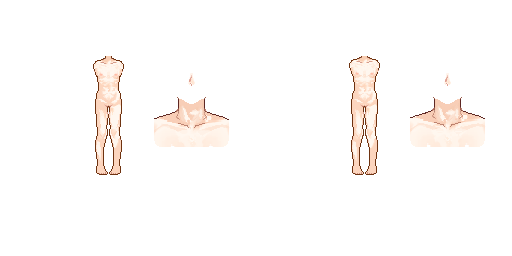
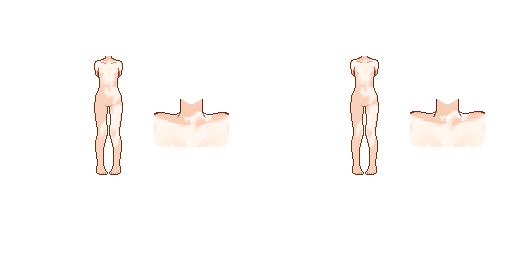
Add Androgynous body slot
Vanilla graphic for it done by Nicoboy (Nicolas). Along with vanilla Modded face 9 and 10.

With this, also bring back the old GooseFem slender body, and make the current Androgynous body to truly read Andro body instead of taking Slender slot.

diff --git a/game/04-Variables/canvasmodel-main.js b/game/04-Variables/canvasmodel-main.js
@@ -18,6 +18,11 @@ replace (?<!["'\w])_(?=\w) with T.
 "to", "is", "gte" etc - fix manually
 */
 // noinspection JSUnusedGlobalSymbols,JSUnusedLocalSymbols
+
+// "andro" only ships its own base sprite; arms, masks and clips reuse the slender art.
+function bodyArtType(bodyType) {
+	return bodyType === "andro" ? "slender" : bodyType;
+}
 /**
  * MODEL OPTIONS
  * =============
@@ -1048,11 +1053,11 @@ Renderer.CanvasModels.main = {
 		}
 		*/
 
-		const notMasc = ["curvy", "slender"].includes(options.body_type);
+		const notMasc = ["curvy", "slender", "andro"].includes(options.body_type);
 		const soft = options.body_type === "soft" && !(between(options.belly, 8, 24));
 		if (notMasc && options.breasts === "cleavage") {
 			const suffix = between(options.breast_size, 3, 4) ? "-3-4.png" : ".png";
-			options.breasts_mask_src = `img/body/breasts/mask-${options.body_type}${suffix}`
+			options.breasts_mask_src = `img/body/breasts/mask-${bodyArtType(options.body_type)}${suffix}`
 		} else {
 			options.breasts_mask_src = null;
 		}
@@ -1070,7 +1075,7 @@ Renderer.CanvasModels.main = {
 		if (notMasc) {
 			["upper", "under_upper"].forEach(slot => {
 				const isFormfitting = options.worn[slot].setup.formfitting;
-				options[`${slot}_fitted_clip_src`] = isFormfitting ? `img/clothes/masks/formfitting-${options.body_type}.png` : null;
+				options[`${slot}_fitted_clip_src`] = isFormfitting ? `img/clothes/masks/formfitting-${bodyArtType(options.body_type)}.png` : null;
 				options[`${slot}_fitted_right_move_src`] = isFormfitting ? "img/clothes/masks/formfitting-right-move.png" : null;
 				options[`${slot}_fitted_left_move_src`] = isFormfitting ? "img/clothes/masks/formfitting-left-move.png" : null;
 			});
@@ -1389,7 +1394,7 @@ Renderer.CanvasModels.main = {
 			srcfn(options) {
 				if (options.mannequin) return "img/body/mannequin/left-arm-idle.png";
 				if (options.arm_left === "cover") return "img/body/left-arm-cover.png";
-				return `img/body/left-arm-idle-${options.body_type}.png`;
+				return `img/body/left-arm-idle-${bodyArtType(options.body_type)}.png`;
 			},
 		},
 		"rightarm": {
@@ -1405,7 +1410,7 @@ Renderer.CanvasModels.main = {
 			},
 			srcfn(options) {
 				if (options.mannequin) return `img/body/mannequin/right-arm-${options.arm_right}.png`;
-				if (options.arm_right === "idle") return `img/body/right-arm-idle-${options.body_type}.png`;
+				if (options.arm_right === "idle") return `img/body/right-arm-idle-${bodyArtType(options.body_type)}.png`;
 				return `img/body/right-arm-${options.arm_right}.png`;
 			},
 		},
@@ -4268,7 +4273,7 @@ Renderer.CanvasModels.main = {
 				// return options.show_clothes
 				// 	&& options.worn.hands.index > 0
 				// 	&& options.worn.hands.setup.leftImage === 1
-				// 	&& ["curvy", "slender"].includes(options.body_type)
+				// 	&& ["curvy", "slender", "andro"].includes(options.body_type)
 				// 	&& options.arm_left === "idle"
 				// 	&& !(options.belly > 7)
 				return false;
@@ -4296,7 +4301,7 @@ Renderer.CanvasModels.main = {
 					&& options.worn.hands.index > 0
 					&& options.worn.hands.setup.leftImage === 1
 					&& options.worn.hands.setup.accessory === 1
-					&& ["curvy", "slender"].includes(options.body_type)
+					&& ["curvy", "slender", "andro"].includes(options.body_type)
 					&& options.arm_left === "idle"
 					&& !(options.belly > 7);
 			},
@@ -5655,7 +5660,7 @@ function genlayer_clothing_fitted_left(slot, overrideOptions) {
 			const checks = options.show_clothes
 				&& options.worn[slot].index > 0
 				&& options.worn[slot].setup.mainImage !== 0
-				&& ((options.worn[slot].setup.formfitting === 1 && ["curvy", "slender"].includes(options.body_type)) || (options.body_type === "soft" && ((V.bellyTucked && ["under_lower", "lower"].includes(slot)) || V.worn[slot].setup.one_piece)))
+				&& ((options.worn[slot].setup.formfitting === 1 && ["curvy", "slender", "andro"].includes(options.body_type)) || (options.body_type === "soft" && ((V.bellyTucked && ["under_lower", "lower"].includes(slot)) || V.worn[slot].setup.one_piece)))
 				&& !between(options.belly, 8, 24);
 			return checks;
 		},
@@ -5681,7 +5686,7 @@ function genlayer_clothing_fitted_left_acc(slot, overrideOptions) {
 			const checks = options.worn[slot].index > 0
 				&& options.worn[slot].setup.accImage !== 0
 				&& options.worn[slot].setup.accessory === 1
-				&& ((options.worn[slot].setup.formfitting === 1 && ["curvy", "slender"].includes(options.body_type)) || (options.body_type === "soft" && (V.bellyTucked || V.worn[slot].setup.one_piece)))
+				&& ((options.worn[slot].setup.formfitting === 1 && ["curvy", "slender", "andro"].includes(options.body_type)) || (options.body_type === "soft" && (V.bellyTucked || V.worn[slot].setup.one_piece)))
 				&& !(options.worn[slot].setup.formfittingDisabled ?? []).includes("acc")
 				&& !between(options.belly, 8, 24);
 			return checks;
@@ -6216,7 +6221,7 @@ function genlayer_clothing_arm_fitted(arm, slot, overrideOptions) {
 			// return options.show_clothes
 			// 	&& options.worn[slot].index > 0
 			// 	&& options.worn[slot].setup.sleeve_img === 1
-			// 	&& ["curvy", "slender"].includes(options.body_type)
+			// 	&& ["curvy", "slender", "andro"].includes(options.body_type)
 			// 	&& options.arm_left === "idle"
 			// 	&& !(options.belly > 7)
 			// 	&& options["arm_" + arm] !== "none";
@@ -6280,7 +6285,7 @@ function genlayer_clothing_arm_acc_fitted(arm, slot, overrideOptions) {
 				&& options.worn[slot].index > 0
 				&& options.worn[slot].setup.sleeve_img === 1
 				&& options.worn[slot].setup.sleeve_acc_img === 1
-				&& ["curvy", "slender"].includes(options.body_type)
+				&& ["curvy", "slender", "andro"].includes(options.body_type)
 				&& options.arm_left === "idle"
 				&& !(options.belly > 7)
 				&& !(options.worn.under_upper.setup.formfittingDisabled ?? []).includes("sleeve_acc")

diff --git a/game/03-JavaScript/save.js b/game/03-JavaScript/save.js
@@ -1143,8 +1143,8 @@ function settingsObjects(type) {
 						textMap: { m: "Masculine", f: "Feminine", a: "Androgynous" },
 					},
 					bodyshape: {
-						strings: ["classic", "slender", "curvy", "soft"],
-						textMap: { classic: "Classic", slender: "Androgynous", curvy: "Curvy", soft: "Soft" },
+						strings: ["classic", "slender", "andro", "curvy", "soft"],
+						textMap: { classic: "Classic", slender: "Slender", andro: "Androgynous", curvy: "Curvy", soft: "Soft" },
 						displayName: "Body shape:",
 						randomize: "characterAppearance",
 					},
